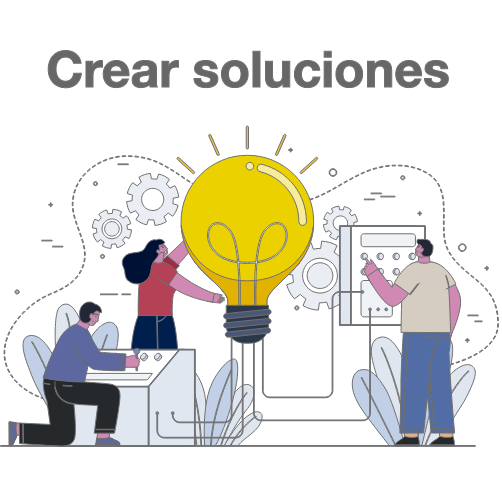
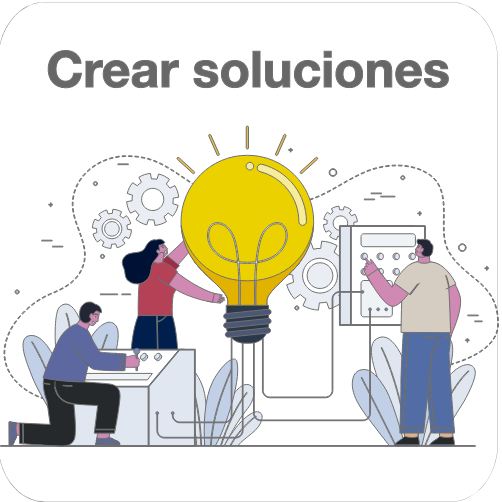
border radius cards

Changed region(s): [[0.0598, 0.9861, 0.9263, 1.0], [0.9861, 0.0896, 1.0, 0.6275], [0.9861, 0.6574, 1.0, 0.9263]]

diff --git a/index.html b/index.html
@@ -120,7 +120,7 @@
               <article class="project">
                 <figure class="project-imageContainer">
                   <figure class="event-imageContainer">
-                    <div class="card">
+                    <div class="card z-depth-5">
                       <div class="card-image waves-effect waves-block waves-light">
                         <img class="activator" src="assets/img/heroes2.png" alt="">
                       </div>
@@ -143,7 +143,7 @@
               <article class="project">
                 <figure class="project-imageContainer">
                   <figure class="event-imageContainer">
-                    <div class="card">
+                    <div class="card z-depth-5">
                       <div class="card-image waves-effect waves-block waves-light">
                         <img class="activator" src="assets/img/Makers2.png" alt="">
                       </div>
@@ -165,7 +165,7 @@
               <article class="project">
                 <figure class="project-imageContainer">
                   <figure class="event-imageContainer">
-                    <div class="card">
+                    <div class="card z-depth-5">
                       <div class="card-image waves-effect waves-block waves-light">
                         <img class="activator" src="assets/img/medicos2.png" alt="">
                       </div>

diff --git a/css/main.css b/css/main.css
@@ -23,7 +23,7 @@ p {
 
 .card {
     color: black;
-    border-radius: 1em;
+    border-radius: 2em;
 }
 
 .container-opensource {
